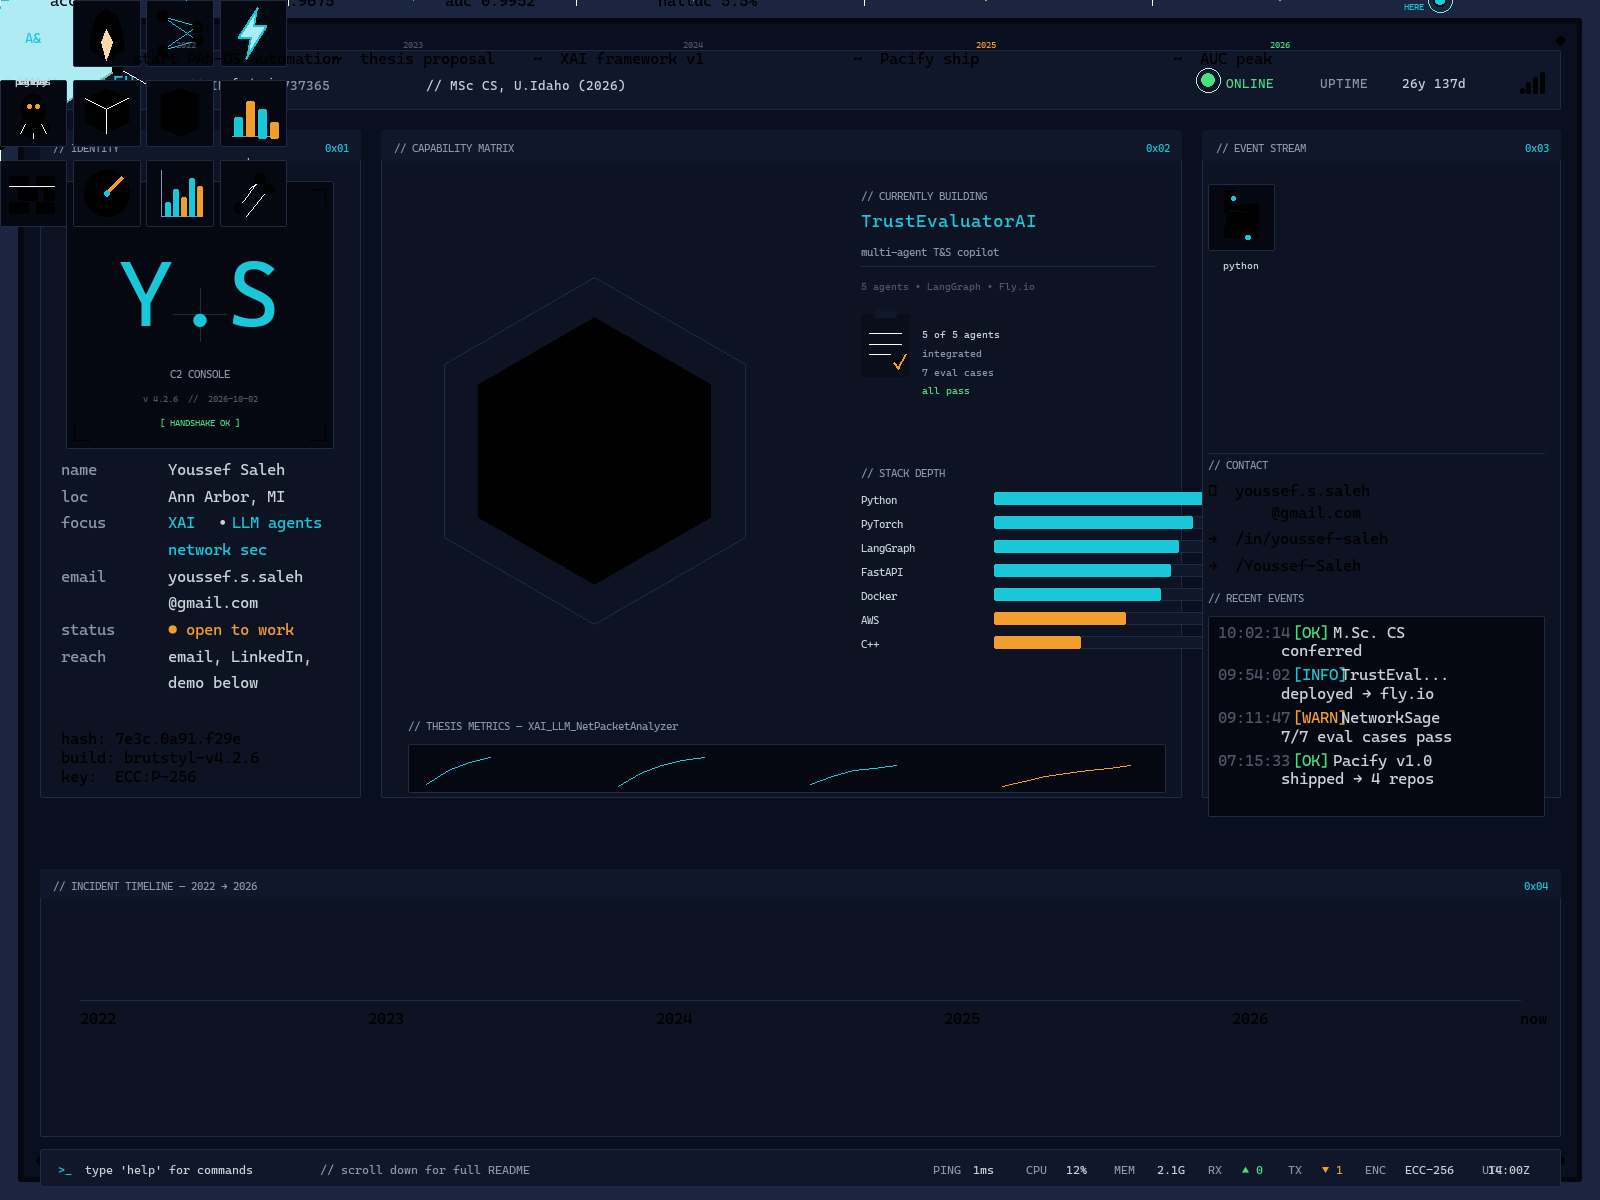
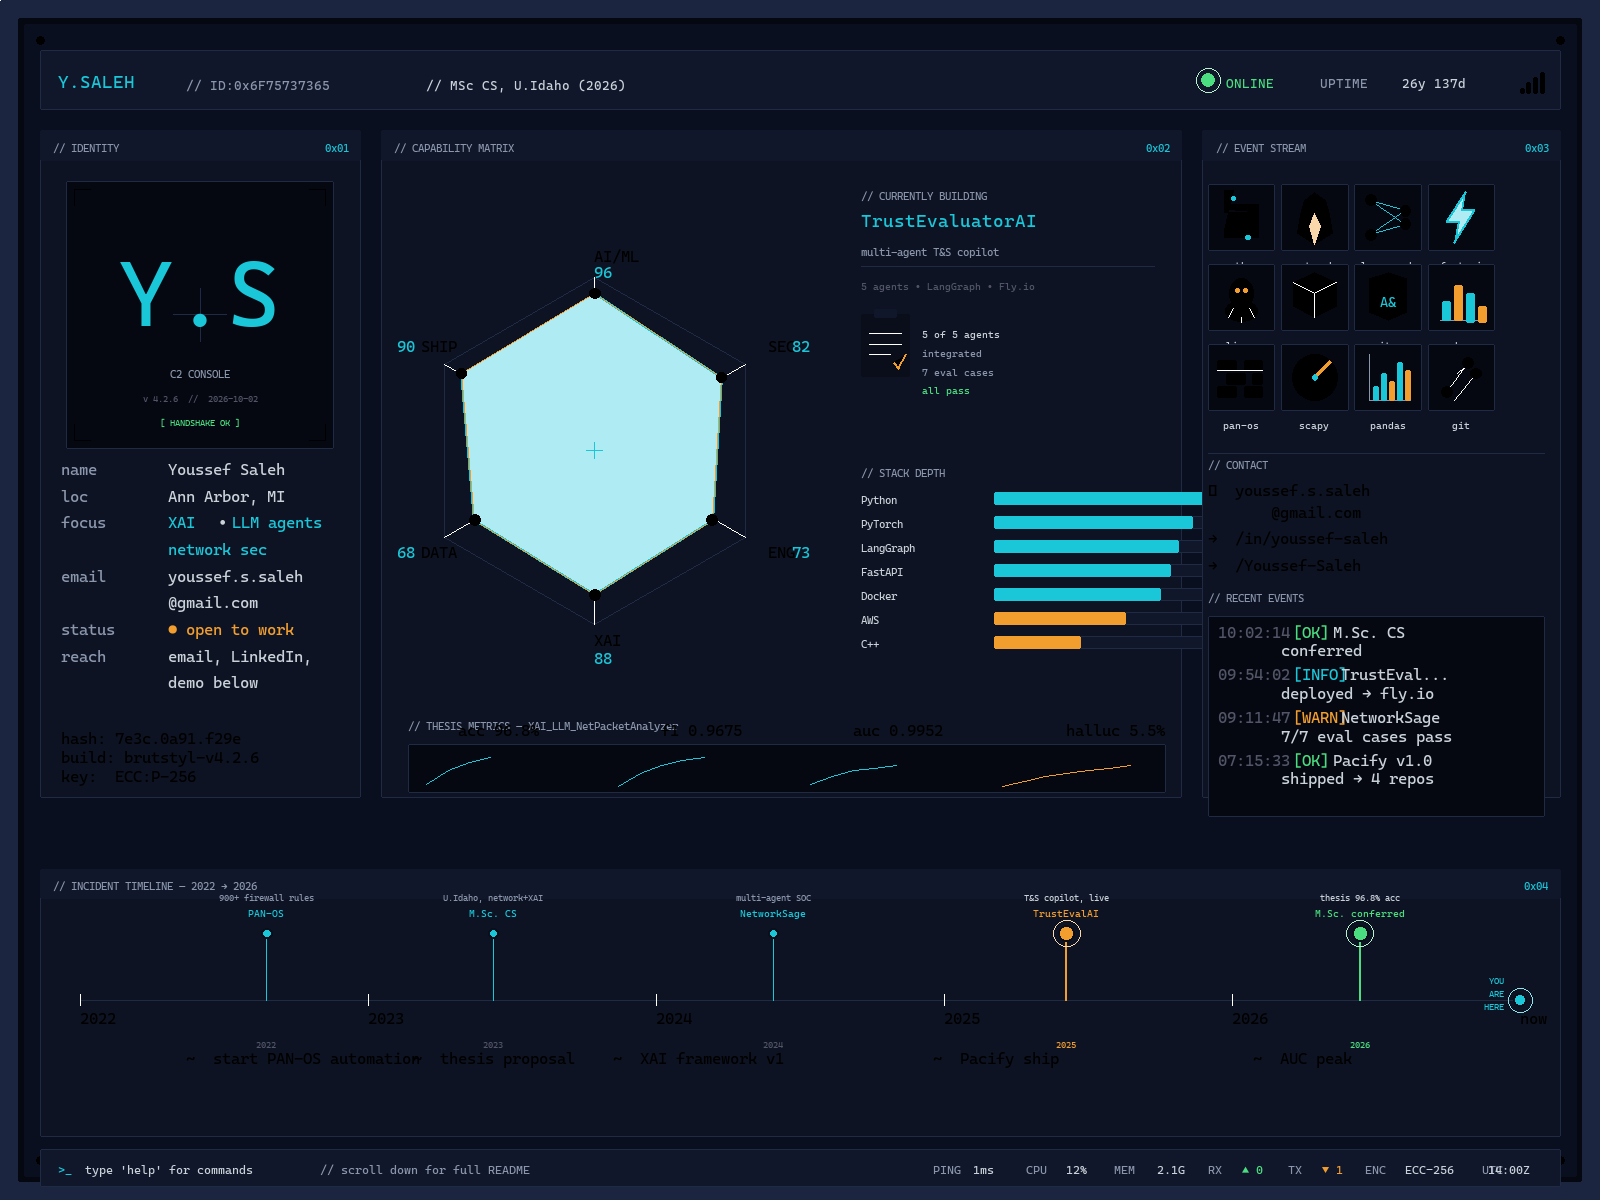
v4: amber alert-tape stripe on YOU ARE HERE marker; fixed nested-g transform bug in renderer

diff --git a/_render/render_svg.py b/_render/render_svg.py
@@ -267,19 +267,24 @@ def render(svg_text, out_path, target_w=1400, bg=(0,0,0,0)):
     # For each <g transform="translate(tx,ty)">, find the matching </g> end
     # using a simple stack walk over the text. Then for each drawable, the
     # active transforms are the g's whose start is before pos and end is after pos.
-    g_ranges = []  # list of (start, end, tx, ty)
-    g_open_stack = []  # stack of (start, tx, ty)
-    pos = 0
+    # CRITICAL: we must track ALL <g>/</g> pairs, not just translated ones,
+    # otherwise the closing tag of an inner non-translated g pops the wrong g
+    # from the stack (it pops the parent instead of the inner).
+    g_ranges = []  # list of (start, end, tx, ty) — only for translated g's
+    g_open_stack = []  # stack of ALL g's, with (start, tx, ty or None)
     for m in re.finditer(r'<g\b([^>]*)>|</g>', svg_clean):
         if m.group(0).startswith('</'):
             if g_open_stack:
                 start, tx, ty = g_open_stack.pop()
-                g_ranges.append((start, m.end(), tx, ty))
+                if tx is not None:
+                    g_ranges.append((start, m.end(), tx, ty))
         else:
-            t = _attr(m.group(1), 'transform', '')
-            tm = re.search(r'translate\(\s*(-?[\d.]+)[ ,]+(-?[\d.]+)\s*\)', t)
-            if tm:
-                g_open_stack.append((m.start(), float(tm.group(1)), float(tm.group(2))))
+            t = re.search(r'translate\(\s*(-?[\d.]+)[ ,]+(-?[\d.]+)\s*\)', m.group(1))
+            if tm_m := t:
+                g_open_stack.append((m.start(), float(tm_m.group(1)), float(tm_m.group(2))))
+            else:
+                # non-translated g — still track on the stack so the close matches
+                g_open_stack.append((m.start(), None, None))
     # g_ranges now contains (start, end, tx, ty) for each translated <g>
 
     def active_transforms_at(pos):

diff --git a/README.md b/README.md
@@ -17,6 +17,11 @@
       <stop offset="0" stop-color="#0a1020"/>
       <stop offset="1" stop-color="#050810"/>
     </linearGradient>
+    <!-- amber alert-tape diagonal stripe pattern -->
+    <pattern id="alertStripe" patternUnits="userSpaceOnUse" width="8" height="8" patternTransform="rotate(45)">
+      <rect width="8" height="8" fill="#0a0e1a"/>
+      <rect width="4" height="8" fill="#f29e2e"/>
+    </pattern>
   </defs>
 
   <!-- ========== OUTER MONITOR FRAME ========== -->
@@ -502,6 +507,11 @@
 
     <!-- Pulsing current-marker (the "you are here" line) -->
     <g transform="translate(1080,0)">
+      <!-- amber alert tape behind the marker -->
+      <g opacity="0.35">
+        <rect x="-22" y="-46" width="44" height="92" fill="url(#alertStripe)"/>
+        <rect x="-22" y="-46" width="44" height="92" fill="none" stroke="#f29e2e" stroke-width="1"/>
+      </g>
       <circle cx="0" cy="0" r="5" fill="#19c7d9" stroke="#0a0e1a" stroke-width="2"/>
       <circle cx="0" cy="0" r="9" fill="none" stroke="#19c7d9" stroke-opacity="0.5" stroke-width="1">
         <animate attributeName="r" values="5;14;5" dur="2s" repeatCount="indefinite"/>
@@ -608,4 +618,4 @@ email:       youssef.s.saleh@gmail.com
   <a href="https://launchgood-trust-copilot.fly.dev/">Live demo</a>
 </p>
 
-<sub>:construction: hand-built. the hero is a 25 KB inline SVG that renders identically on every client — no external badges, no stats services, no broken images.</sub>
+<sub>:construction: hand-built. the hero is a 26 KB inline SVG that renders identically on every client — no external badges, no stats services, no broken images. animated "YOU ARE HERE" marker pulses on the timeline.</sub>
